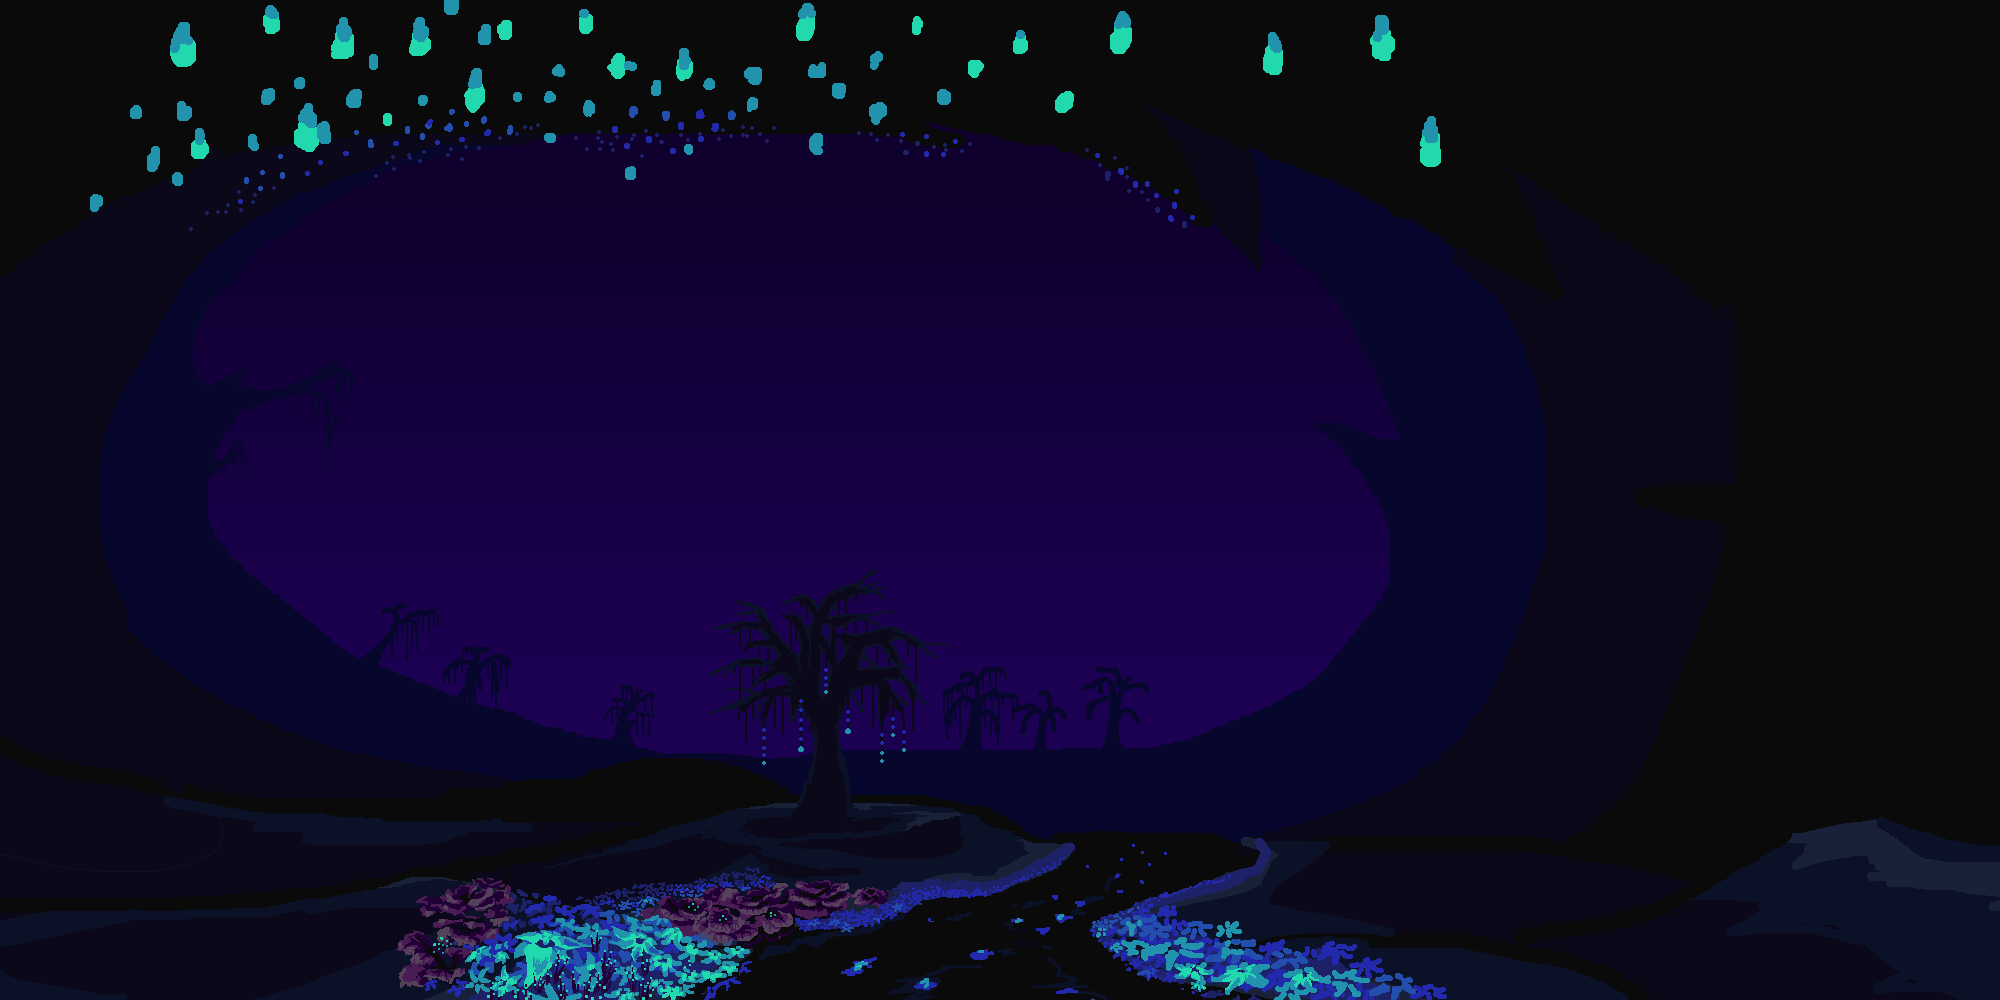
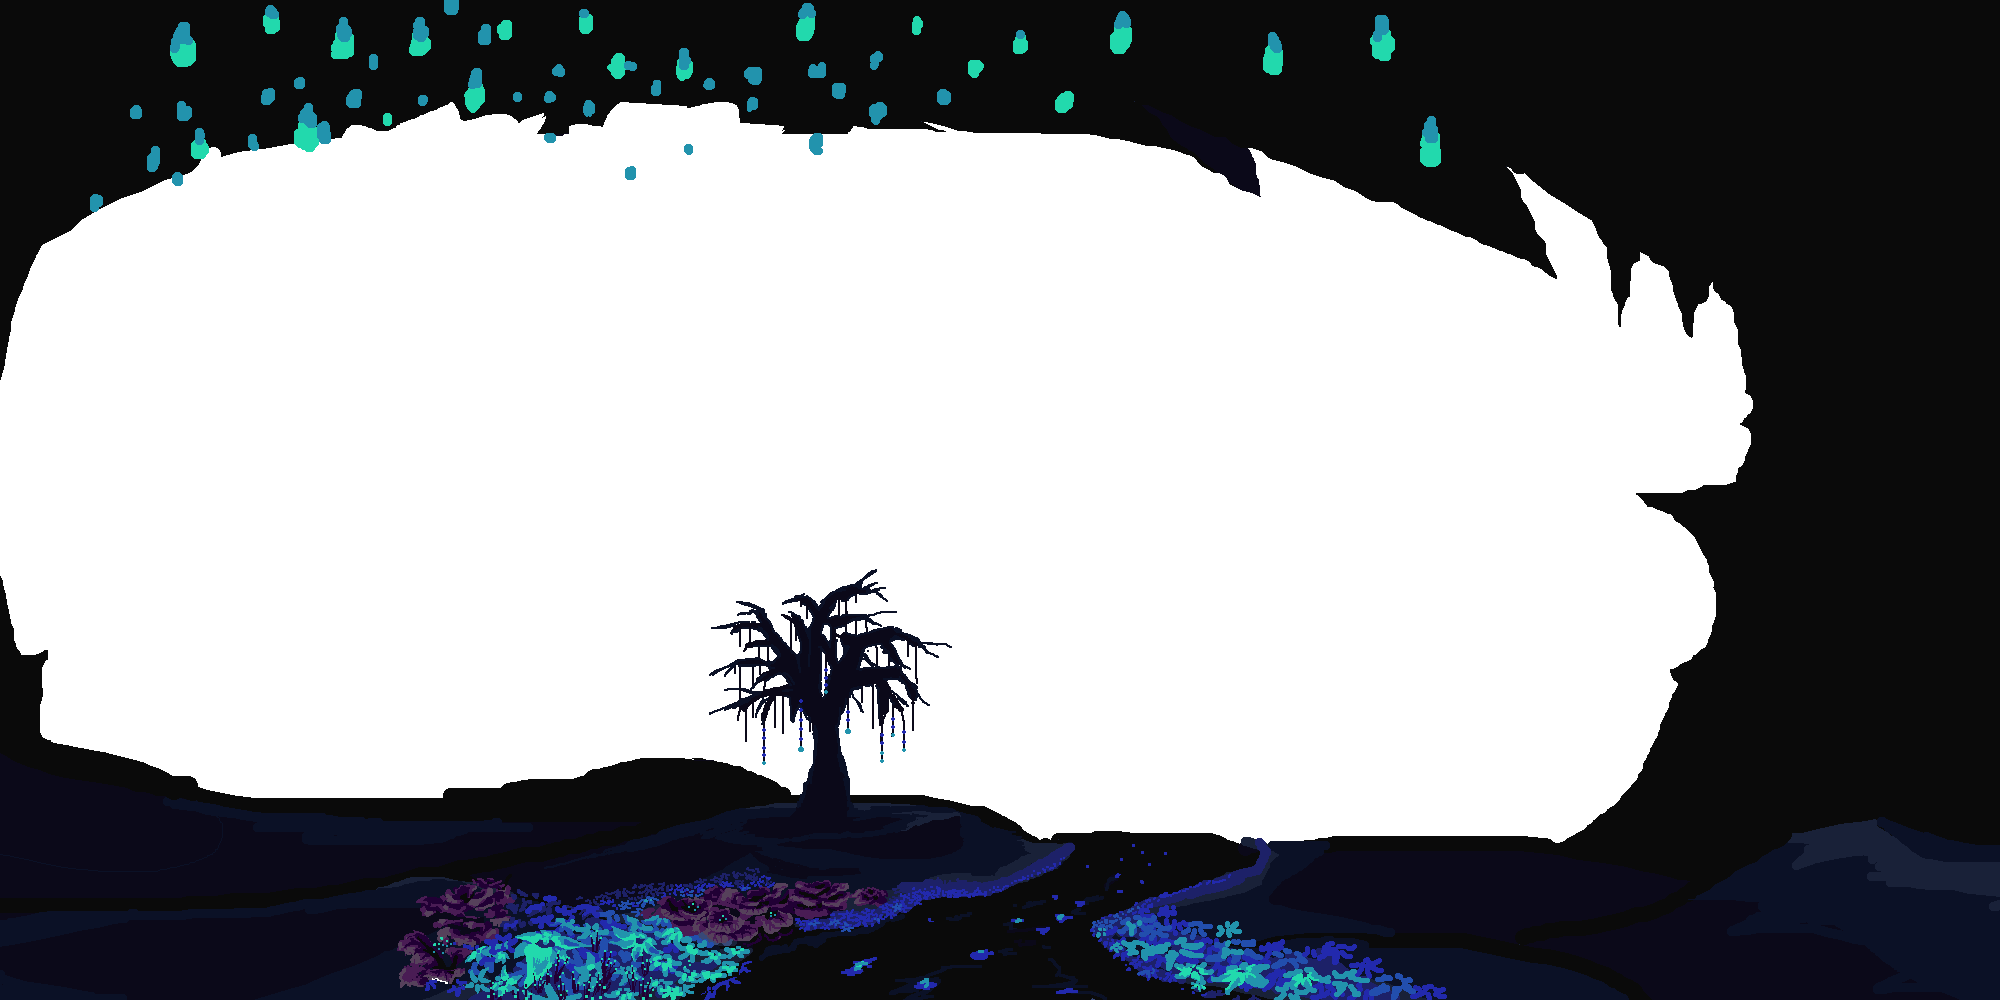
Move 3 layer background

diff --git a/Sources/Modules/MythModule/TheFirefly/WorldGeneration/MothGen.cs b/Sources/Modules/MythModule/TheFirefly/WorldGeneration/MothGen.cs
@@ -236,13 +236,27 @@ namespace Everglow.Sources.Modules.MythModule.TheFirefly.WorldGeneration
             v0.X *= 0.9f;
             return (v0.Length() < 2000);
         }
+        public Rectangle GetDrawRec(Vector2 texSize, float MoveStep)
+        {
+            Vector2 sampleTopleft = Vector2.Zero;
+            Vector2 sampleCenter = sampleTopleft + (texSize / 2);
+            Vector2 screenSize = new Vector2(Main.screenWidth, Main.screenHeight);
+            Player localP = Main.LocalPlayer;
+            Vector2 deltaPos = localP.Center - new Vector2(FireflyCenterX * 16f, FireflyCenterY * 16f);
+            deltaPos *= MoveStep;
+            Vector2 Move = new Vector2((int)deltaPos.X, (int)(deltaPos.Y));
+            return new Rectangle((int)(sampleCenter.X - screenSize.X / 2 + Move.X), (int)(sampleCenter.Y - screenSize.Y / 2 + Move.Y), (int)(screenSize.X), (int)(screenSize.Y));
+        }
         private void DrawBackground()
         {
             if (!BiomeActive())
             {
                 return;
             }
-            var tex = MythContent.QuickTexture("TheFirefly/Backgrounds/FireflyClose");
+            var texSky = MythContent.QuickTexture("TheFirefly/Backgrounds/FireflySky");
+            var texFar = MythContent.QuickTexture("TheFirefly/Backgrounds/FireflyFar");
+            var texMiddle = MythContent.QuickTexture("TheFirefly/Backgrounds/FireflyMiddle");
+            var texClose = MythContent.QuickTexture("TheFirefly/Backgrounds/FireflyClose");
             var glowmask = MythContent.QuickTexture("TheFirefly/Backgrounds/FireflyClose_Glow");
             Vector2 min = Main.screenPosition;
             Vector2 max = Main.screenPosition + Main.ScreenSize.ToVector2();
@@ -251,8 +265,8 @@ namespace Everglow.Sources.Modules.MythModule.TheFirefly.WorldGeneration
             int width = rbTile.X - tlTile.X;
             int height = rbTile.Y - tlTile.Y;
             Point sampleTopleft = Point.Zero;
-            Point sampleSize = tex.Size().ToPoint();
-            Point sampleCenter = sampleTopleft + (tex.Size() / 2).ToPoint();
+            Point sampleSize = texClose.Size().ToPoint();
+            Point sampleCenter = sampleTopleft + (texClose.Size() / 2).ToPoint();
             Point screenSize = new Point(Main.screenWidth, Main.screenHeight);
             Player localP = Main.LocalPlayer;
             Vector2 deltaPos = localP.Center - new Vector2(FireflyCenterX * 16f, FireflyCenterY * 16f);
@@ -281,11 +295,15 @@ namespace Everglow.Sources.Modules.MythModule.TheFirefly.WorldGeneration
             //    }
             //}
 
-
+            float FarMove = 0.15f;
             Main.spriteBatch.End();
             Main.spriteBatch.Begin(SpriteSortMode.Deferred, BlendState.AlphaBlend);
+            Rectangle screen = new Rectangle(0, 0, Main.screenWidth, Main.screenHeight);
             //Main.spriteBatch.Draw(tex, new Rectangle(0, 0, Main.screenWidth, Main.screenHeight), new Rectangle(sampleCenter.X - screenSize.X / 8 + Move.X, sampleCenter.Y - screenSize.Y / 8 + Move.Y, screenSize.X / 4, screenSize.Y / 4), Color.White);
-            Main.spriteBatch.Draw(tex, new Rectangle(0, 0, Main.screenWidth, Main.screenHeight), new Rectangle(sampleCenter.X - screenSize.X / 2 + Move.X, sampleCenter.Y - screenSize.Y / 2 + Move.Y, screenSize.X, screenSize.Y), Color.White);
+            Main.spriteBatch.Draw(texSky, screen, GetDrawRec(texSky.Size(), 0), Color.White);
+            Main.spriteBatch.Draw(texFar, screen, GetDrawRec(texFar.Size(), 0.03f), Color.White);
+            Main.spriteBatch.Draw(texMiddle, screen, GetDrawRec(texMiddle.Size(), 0.17f), Color.White);
+            Main.spriteBatch.Draw(texClose, screen, GetDrawRec(texClose.Size(), 0.25f), Color.White);
             Main.spriteBatch.End();
             Main.spriteBatch.Begin(SpriteSortMode.Deferred, BlendState.AlphaBlend);
 
